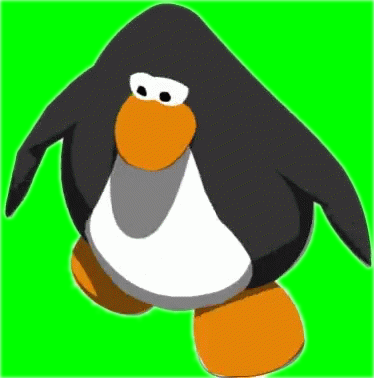
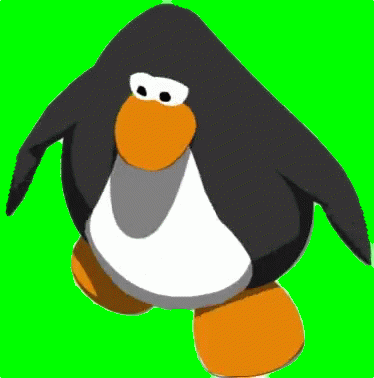
moving animation

diff --git a/Club Penguin/main V3.py b/Club Penguin/main V3.py
@@ -10,7 +10,7 @@ Variables
 '''
 worldx = 1500
 worldy = 820
-fps = 40  # frame rate
+fps = 20  # frame rate
 ani = 4  # animation cycles
 world = pygame.display.set_mode([worldx, worldy])
 player_width = 80
@@ -34,7 +34,7 @@ class Player(pygame.sprite.Sprite):
         self.movey = 0
         self.frame = 0
         self.images = []
-        for i in range(1, 5):
+        for i in range(1, 8):
             img = pygame.image.load(os.path.join('Python-projects','Club Penguin','images', 'player' + str(i) + '.png')).convert()
             img = pygame.transform.scale(img, (player_width, player_height))  # Resize the image
             img.convert_alpha()  # optimise alpha
@@ -57,20 +57,28 @@ class Player(pygame.sprite.Sprite):
 
         self.rect.x = self.rect.x + self.movex
         self.rect.y = self.rect.y + self.movey
+        
+        # moving animation leste
+        
+        # moving animation oeste
 
-        # moving left
+        # moving animation sudoeste
         if self.movex < 0:
             self.frame += 1
             if self.frame > 3*ani:
                 self.frame = 0
             self.image = pygame.transform.flip(self.images[self.frame // ani], True, False)
 
-        # moving right
+        # moving animation sudeste
         if self.movex > 0:
             self.frame += 1
             if self.frame > 3*ani:
                 self.frame = 0
             self.image = self.images[self.frame//ani]
+            
+        # moving animation norte
+        
+        #moving animation sul
         
 
     
